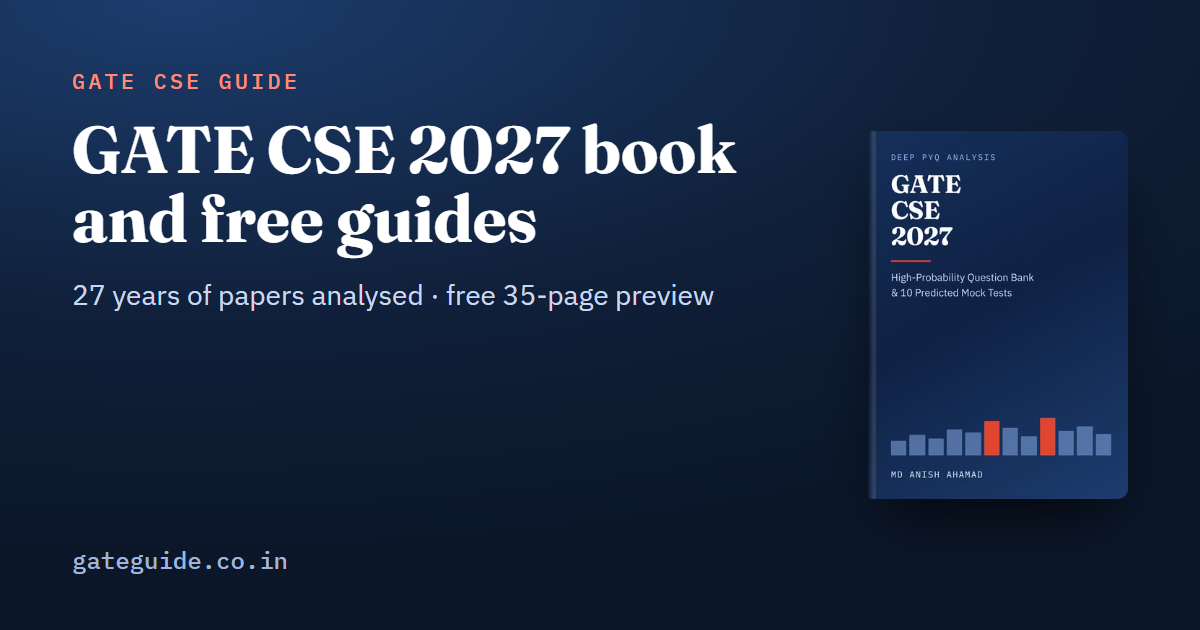
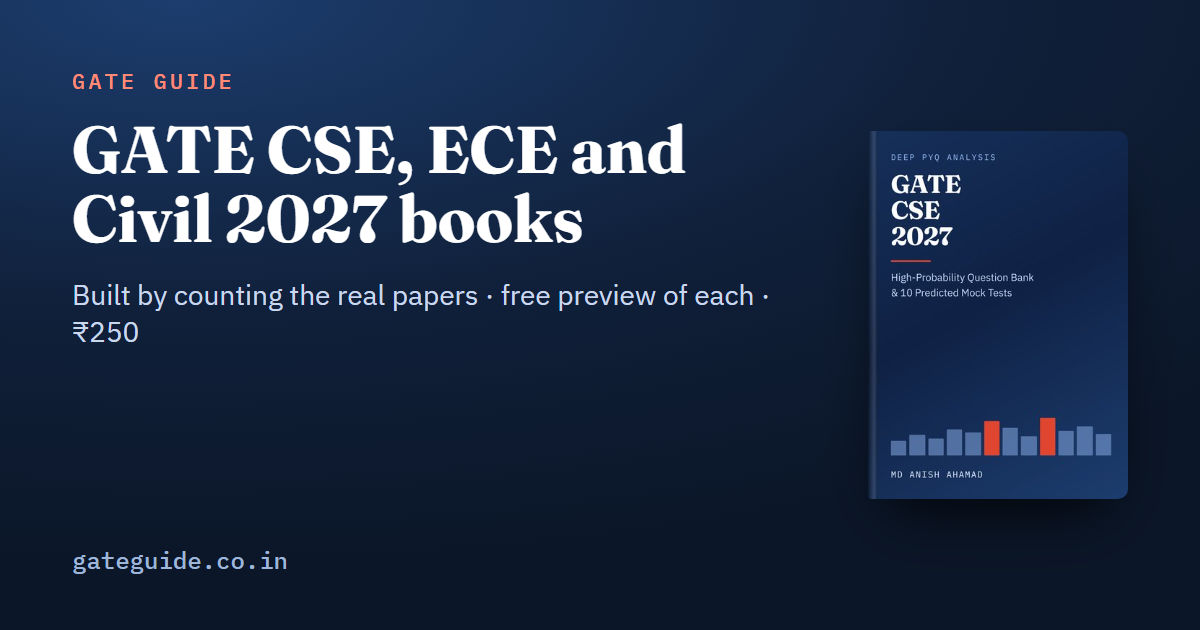
Home page for all three books; the ECE page's Buy button sold the CSE book
The ECE book page's Buy buttons used the CSE checkout target from the day the page launched (24 Sep), so
an ECE buyer paid for, and was sent, the CSE book. They now open the ECE checkout, and the ECE and Civil
pages each carry a button to their own free preview.

The home page was written for two books: it said two were out, sold CSE through WhatsApp, said the ECE
preview did not exist and left Civil out. It now shows all three - three covers in the hero, a section
per book with its own Buy button, and a free-preview button for each book - and the counts on it are
taken from the branch list. The thank-you page's reading list no longer uses CSE section numbers.

diff --git a/index.html b/index.html
@@ -3,24 +3,24 @@
 <head>
 <meta charset="utf-8">
 <meta name="viewport" content="width=device-width, initial-scale=1">
-<title>GATE Guide: GATE CSE and ECE 2027 Books, Free Guides and Preview</title>
-<meta name="description" content="GATE Guide: the GATE CSE and ECE 2027 books, built by counting the real papers, with 67 free guides on syllabus, topics and strategy. ₹250 each.">
+<title>GATE Guide: GATE CSE, ECE and Civil 2027 Books and Free Guides</title>
+<meta name="description" content="GATE CSE, ECE and Civil 2027 books built by counting the real papers, with free previews and 67 free guides. ₹250 each.">
 <meta name="author" content="MD ANISH AHAMAD">
 <meta name="robots" content="index, follow, max-image-preview:large">
 <link rel="canonical" href="https://gateguide.co.in/">
 <link rel="alternate" type="application/rss+xml" title="GATE Guide guides" href="https://gateguide.co.in/feed.xml">
 <meta property="og:type" content="website">
 <meta property="og:site_name" content="GATE Guide">
-<meta property="og:title" content="GATE Guide: GATE CSE and ECE 2027 Books, Free Guides and Preview">
-<meta property="og:description" content="GATE Guide: the GATE CSE and ECE 2027 books, built by counting the real papers, with 67 free guides on syllabus, topics and strategy. ₹250 each.">
+<meta property="og:title" content="GATE Guide: GATE CSE, ECE and Civil 2027 Books and Free Guides">
+<meta property="og:description" content="GATE CSE, ECE and Civil 2027 books built by counting the real papers, with free previews and 67 free guides. ₹250 each.">
 <meta property="og:url" content="https://gateguide.co.in/">
 <meta property="og:image" content="https://gateguide.co.in/og-home.png">
 <meta property="og:image:width" content="1200"><meta property="og:image:height" content="630">
 <meta property="og:locale" content="en_IN">
 
 <meta name="twitter:card" content="summary_large_image">
-<meta name="twitter:title" content="GATE Guide: GATE CSE and ECE 2027 Books, Free Guides and Preview">
-<meta name="twitter:description" content="GATE Guide: the GATE CSE and ECE 2027 books, built by counting the real papers, with 67 free guides on syllabus, topics and strategy. ₹250 each.">
+<meta name="twitter:title" content="GATE Guide: GATE CSE, ECE and Civil 2027 Books and Free Guides">
+<meta name="twitter:description" content="GATE CSE, ECE and Civil 2027 books built by counting the real papers, with free previews and 67 free guides. ₹250 each.">
 <meta name="twitter:image" content="https://gateguide.co.in/og-home.png">
 <meta name="theme-color" content="#10203a">
 <meta name="google-site-verification" content="Du5Pn8hRIgC57HRQxp-gwjXu2qKO33WNFV4_7ptnVdE">
@@ -144,6 +144,13 @@ footer a{color:var(--ink-2)}
 /* Two covers, side by side and overlapping. One cover says "a book"; two say "a shelf", which is
    the true thing to say. Both titles have to stay readable or the second one reads as a shadow. */
 .coverbox.two-up{max-width:430px;display:flex;align-items:flex-end;justify-content:center}
+.coverbox.three-up{max-width:470px;display:flex;align-items:flex-end;justify-content:center}
+.coverbox.three-up .front{width:50%;position:relative;z-index:3}
+.coverbox.three-up .back{width:42%;margin-bottom:22px;position:relative;z-index:1}
+.coverbox.three-up .back.l{margin-right:-14%;transform:rotate(-4deg)}
+.coverbox.three-up .back.r{margin-left:-14%;transform:rotate(4deg)}
+.coverbox.three-up .badge{top:-14px;left:0;right:auto;z-index:4}
+.coverbox.three-up .pricepill{left:auto;right:-6px;bottom:-10px;z-index:4}
 .coverbox.two-up .front{width:58%;position:relative;z-index:2}
 .coverbox.two-up .back{width:52%;margin-left:-9%;margin-bottom:26px;transform:rotate(3deg);z-index:1;
   box-shadow:0 22px 44px -20px rgba(16,32,58,.7)}
@@ -225,11 +232,11 @@ background:var(--ink);color:#fff;padding:3px 6px;border-radius:5px}
 <div class="wrap wide">
 <section class="hero">
   <div>
-    <div class="eyebrow">GATE GUIDE · GATE CSE and GATE ECE and GATE CE 2027 out now</div>
+    <div class="eyebrow">GATE GUIDE · GATE CSE, GATE ECE and GATE CE 2027 out now</div>
     <h1>GATE preparation built from the papers, not from a syllabus list</h1>
-    <p class="lead">Every GATE Guide book is written by counting real question papers, one question at a time. Two are out — <b>GATE CSE 2027</b> and <b>GATE ECE 2027</b> — and 67 free guides cover the syllabus, the topics and the strategy for nothing at all.</p>
+    <p class="lead">Every GATE Guide book is written by counting real question papers, one question at a time. Three are out — <b>GATE CSE</b>, <b>GATE ECE</b> and <b>GATE Civil (CE) 2027</b> — and 67 free guides cover the syllabus, the topics and the strategy for nothing at all.</p>
     <div class="cta-row">
-      <a class="btn" href="books/">See both books · ₹250 each</a>
+      <a class="btn" href="books/">See all 3 books · ₹250 each</a>
       <a class="btn ghost" href="articles/">67 free guides</a>
     </div>
     <div class="chips">
@@ -238,10 +245,11 @@ background:var(--ink);color:#fff;padding:3px 6px;border-radius:5px}
       <span class="chip">Organiser: IIT Madras</span>
     </div>
   </div>
-  <a class="coverbox two-up" href="books/" aria-label="The GATE CSE and GATE ECE 2027 books">
-    <img class="back" src="assets/cover-ece-720.jpg" width="720" height="1018" alt="GATE ECE 2027 book cover" loading="lazy">
+  <a class="coverbox three-up" href="books/" aria-label="The GATE CSE, ECE and Civil 2027 books">
+    <img class="back l" src="assets/cover-ece-720.jpg" width="720" height="1018" alt="GATE ECE 2027 book cover" loading="lazy">
     <img class="front" src="assets/cover-720.jpg" width="720" height="1019" alt="GATE CSE 2027 book cover">
-    <span class="badge">2 books · 2027</span>
+    <img class="back r" src="assets/cover-ce-720.jpg" width="720" height="1018" alt="GATE Civil 2027 book cover" loading="lazy">
+    <span class="badge">3 books · 2027</span>
     <span class="pricepill">₹250<s>₹300</s></span>
   </a>
 </section>
@@ -266,7 +274,7 @@ background:var(--ink);color:#fff;padding:3px 6px;border-radius:5px}
 <section class="band" id="branches"><div class="wrap wide">
   <div class="eyebrow">Books by branch</div>
   <h2>Your branch, or the truth about when it will be ready</h2>
-  <p>CSE and ECE are finished and on sale. The other four are written one at a time — each takes months of paper-by-paper work, so they are ordered by how many people ask for them. Tap a branch that is not ready and you can ask to be told the day it is.</p>
+  <p>CSE, ECE and Civil are finished and on sale. The rest are written one at a time — each takes months of paper-by-paper work, so they are ordered by how many people ask for them. Tap a branch that is not ready and you can ask to be told the day it is.</p>
 </div>
 <div class="shelf-wrap"><div class="shelf"><a class="bc out" href="gate-cse-2027-book/"><img src="assets/cover-360.jpg" width="360" height="510" alt="GATE CSE 2027 book cover" loading="lazy"><span class="code">CS</span><b>GATE CSE</b><span class="st">Out now · ₹250</span></a><a class="bc out" href="gate-ece-2027-book/"><img src="assets/cover-ece-360.jpg" width="360" height="510" alt="GATE ECE 2027 book cover" loading="lazy"><span class="code">EC</span><b>GATE ECE</b><span class="st">Out now · ₹250</span></a><a class="bc out" href="gate-ce-2027-book/"><img src="assets/cover-ce-360.jpg" width="360" height="510" alt="GATE CE 2027 book cover" loading="lazy"><span class="code">CE</span><b>GATE CE</b><span class="st">Out now · ₹250</span></a><a class="bc" href="books/"><span class="ghost"><span class="gc">DA</span><span class="gt">Coming soon</span></span><span class="code">DA</span><b>GATE DA</b><span class="st">Coming soon</span></a><a class="bc" href="books/"><span class="ghost"><span class="gc">EE</span><span class="gt">Coming soon</span></span><span class="code">EE</span><b>GATE EE</b><span class="st">Coming soon</span></a><a class="bc" href="books/"><span class="ghost"><span class="gc">ME</span><span class="gt">Coming soon</span></span><span class="code">ME</span><b>GATE ME</b><span class="st">Coming soon</span></a></div></div>
 <div class="wrap wide">
@@ -292,7 +300,7 @@ background:var(--ink);color:#fff;padding:3px 6px;border-radius:5px}
       </ul>
       <div class="cta-row" style="align-items:center">
         <span><span class="price">₹250</span><span class="was">₹300</span></span>
-        <a class="btn" href="https://wa.me/917033935778?text=Hi%2C%20I%20want%20to%20buy%20the%20GATE%20CSE%202027%20book%20%28%E2%82%B9250%29.%20I%20found%20you%20through%3A%20home%20page" target="_blank" rel="noopener">Buy on WhatsApp</a>
+        <a class="btn" href="/go/buy/home/">Buy now — ₹250</a>
         <a class="btn ghost" href="gate-cse-2027-book/">See the book</a>
       </div>
     </div>
@@ -333,16 +341,45 @@ background:var(--ink);color:#fff;padding:3px 6px;border-radius:5px}
   </div>
 </div></section>
 
+<section class="band"><div class="wrap wide">
+  <div class="feature">
+    <div>
+      <div class="eyebrow">The GATE Civil (CE) 2027 book · by MD ANISH AHAMAD</div>
+      <h2>GATE CE 2027 — Deep PYQ Analysis &amp; High-Probability Question Bank</h2>
+      <div class="stats">
+        <div class="stat"><b>620</b><span>pages</span></div>
+        <div class="stat"><b>924</b><span>questions with worked solutions</span></div>
+        <div class="stat"><b>10</b><span>full mock tests</span></div>
+        <div class="stat"><b>16</b><span>papers counted</span></div>
+      </div>
+      <ul class="list">
+        <li>All sixteen GATE Civil papers, 2019 to 2026, counted question by question</li>
+        <li>Both sets in every year, because Civil is examined as two papers</li>
+        <li>Every 2026 → 2027 syllabus change, and which new topics were already examined</li>
+        <li>The hundred questions to work first, a what-not-to-skip chapter and a last-minute sheet</li>
+      </ul>
+      <div class="cta-row" style="align-items:center">
+        <span><span class="price">₹250</span><span class="was">₹300</span></span>
+        <a class="btn" href="/go/buy-ce/home/">Buy now — ₹250</a>
+        <a class="btn ghost" href="gate-ce-2027-book/">See the book</a>
+      </div>
+    </div>
+    <a class="coverbox" style="max-width:250px" href="gate-ce-2027-book/" aria-label="GATE Civil 2027 book">
+      <img src="assets/cover-ce-720.jpg" width="720" height="1018" loading="lazy" alt="GATE Civil 2027 book cover">
+    </a>
+  </div>
+</div></section>
+
 <section class="band" id="preview"><div class="wrap wide two">
   <div>
     <div class="eyebrow">Free download</div>
-    <h2>Read 35 real pages before you buy</h2>
-    <p>Thirty-five real pages of the <b>GATE CSE 2027</b> book, unedited, so you can judge the quality yourself. No sign-up. The ECE preview is not out yet; its sales page shows the counted marks table in full instead.</p>
-    <div class="cta-row"><a class="btn" href="/go/preview/home/">Download the free preview (PDF, 2.4 MB)</a></div>
+    <h2>Read real pages before you buy</h2>
+    <p>Every book has a free preview: real pages taken unchanged from the full PDF, so you can judge the quality yourself. No sign-up.</p>
+    <div class="cta-row"><a class="btn" href="/go/preview/home/">GATE CSE preview (35 pages)</a><a class="btn ghost" href="/go/preview-ece/home/">GATE ECE preview (35 pages)</a><a class="btn ghost" href="/go/preview-ce/home/">GATE CE preview (37 pages)</a></div>
   </div>
   <div class="panel">
-    <b>Inside the preview</b>
-    <ul class="list"><li>Title page and full contents</li><li>Executive summary</li><li>What changed in the 2027 syllabus</li><li>Subject-wise weightage 2009–2026</li><li>Operating System chapter sample with questions and four confidence scores</li><li>Top 100 concepts: ranks 1–25</li><li>Mock Test 01: first pages, answer key and worked solutions</li><li>Last-minute revision sheet and diagram-based questions</li></ul>
+    <b>Inside each preview</b>
+    <ul class="list"><li>Title page and full contents</li><li>Executive summary</li><li>What changed in the 2027 syllabus</li><li>Subject-wise weightage from the counted papers</li><li>A subject chapter sample with questions and confidence scores</li><li>Mock Test 01: first pages, answer key and worked solutions</li><li>Last-minute revision sheet</li></ul>
   </div>
 </div></section>
 
@@ -376,7 +413,7 @@ background:var(--ink);color:#fff;padding:3px 6px;border-radius:5px}
 </div></section>
 </main>
 <footer><div class="wrap wide"><nav><a href="">GATE GUIDE</a><a href="gate-cse-2027-book/">GATE CSE 2027 book</a><a href="articles/">Blog</a><a href="contact/">Contact Us</a> <a href="terms/">Terms</a> <a href="refund-policy/">Refund Policy</a> <a href="shipping-delivery-policy/">Shipping and Delivery</a> <a href="privacy-policy/">Privacy Policy</a></nav><p style="margin:0">© 2026 MD ANISH AHAMAD. GATE is conducted by IISc Bengaluru and the IITs; GATE 2027 is organised by IIT Madras. GATE GUIDE is independent and not affiliated with them. Confirm dates and syllabus at gate2027.iitm.ac.in.</p></div></footer>
-<div class="buybar"><div class="wrap wide"><div class="t"><b>GATE CSE and GATE ECE and GATE CE 2027</b>Out now · ₹250 <s>₹300</s> each · free preview of both</div><a class="btn sm" href="books/">See both books</a></div></div>
+<div class="buybar"><div class="wrap wide"><div class="t"><b>GATE CSE, GATE ECE and GATE CE 2027</b>Out now · ₹250 <s>₹300</s> each · free preview of each</div><a class="btn sm" href="books/">See all books</a></div></div>
 <script>
 (function(){var d=Math.ceil((new Date(2027,1,6)-new Date())/864e5);var el=document.getElementById('countdown');
 if(el&&d>0)el.textContent=d+' days to GATE 2027';})();

diff --git a/gate-ece-2027-book/index.html b/gate-ece-2027-book/index.html
@@ -221,8 +221,8 @@ footer a{color:var(--ink-2)}
     papers, they do not hold. This book counts the papers instead, and shows you the working.</p>
     <div class="pricerow">
       <span class="rupee">₹250<s>₹300</s></span>
-      <a class="btn" href="/go/buy/book/">Buy now — ₹250</a>
-      <a class="btn ghost" href="../books/">All branches</a>
+      <a class="btn" href="/go/buy-ece/ece-book/">Buy now — ₹250</a>
+      <a class="btn ghost" href="/go/preview-ece/ece-book/">Free preview</a>
     </div>
     <p class="paynote">UPI, cards and net banking · secure checkout by Razorpay · the download opens
     as soon as the payment is confirmed.</p>
@@ -336,10 +336,10 @@ exactly 15 marks in all five.</p>
     this book included.</p>
     <div class="pricerow">
       <span class="rupee" style="color:#fff">₹250<s style="color:#8fb4ee">₹300</s></span>
-      <a class="btn" href="/go/buy/book/">Buy now — ₹250</a>
+      <a class="btn" href="/go/buy-ece/ece-book/">Buy now — ₹250</a>
     </div>
     <p style="font-size:.88rem">Questions before buying? Message
-    <a href="/go/whatsapp/book/?text=Hi%2C%20I%20want%20to%20buy%20the%20GATE%20ECE%202027%20book%20%28%E2%82%B9250%29.%20I%20found%20you%20through%3A%20book%20page" target="_blank" rel="noopener" style="color:#fff">+91 70339 35778</a> on WhatsApp,
+    <a href="/go/whatsapp/ece-book/?text=Hi%2C%20I%20want%20to%20buy%20the%20GATE%20ECE%202027%20book%20%28%E2%82%B9250%29.%20I%20found%20you%20through%3A%20book%20page" target="_blank" rel="noopener" style="color:#fff">+91 70339 35778</a> on WhatsApp,
     or write to <a href="mailto:mdanisahamad2003@gmail.com" style="color:#fff">mdanisahamad2003@gmail.com</a>.</p>
   </div>
   <p style="font-size:.88rem;color:var(--ink-3);margin-top:18px">GATE is conducted by IISc Bengaluru

diff --git a/thank-you/index.html b/thank-you/index.html
@@ -142,9 +142,9 @@ ol{padding-left:20px} ol li{margin:8px 0;color:var(--ink-2)}
 <div class="card" style="margin-top:18px">
   <h2 style="margin-top:0;font-size:1.15rem">What to read first</h2>
   <ol>
-    <li>Section 1, the executive summary: what the evidence says about the 2027 paper.</li>
-    <li>Section 9, where the concepts are ranked, and Section 10, the do-not-skip checklist.</li>
-    <li>Then take Mock Test 01 under exam conditions and score it with Section 12.</li>
+    <li>The executive summary at the start of the book: what the evidence says about the 2027 paper.</li>
+    <li>The ranked list of what to work first, and the do-not-skip chapter.</li>
+    <li>Then take Mock Test 01 under exam conditions and score it with its answer key.</li>
   </ol>
   <p style="margin-bottom:0">The free guides on the <a href="/articles/">blog</a> cover exam dates, syllabus changes and subject-wise plans.</p>
 </div>

diff --git a/gate-ce-2027-book/index.html b/gate-ce-2027-book/index.html
@@ -222,7 +222,7 @@ footer a{color:var(--ink-2)}
     and you cannot tell which. This book counts all 16 papers, both sets, and prints the spread.</p>
     <div class="pricerow">
       <span class="rupee">₹250<s>₹300</s></span>
-      <a class="btn" href="/go/buy-ce/ce-book/">Buy now — ₹250</a><a class="btn ghost" href="../books/">All branches</a>
+      <a class="btn" href="/go/buy-ce/ce-book/">Buy now — ₹250</a><a class="btn ghost" href="/go/preview-ce/ce-book/">Free preview</a>
     </div>
     <p class="paynote">UPI, cards and net banking · secure checkout by Razorpay · the download opens as soon as the payment is confirmed.</p>
     <div class="facts"><span>620 pages</span><span>924 questions with worked solutions</span><span>10 full mock tests</span><span>16 papers counted question by question</span><span>both sets, every year</span></div>
